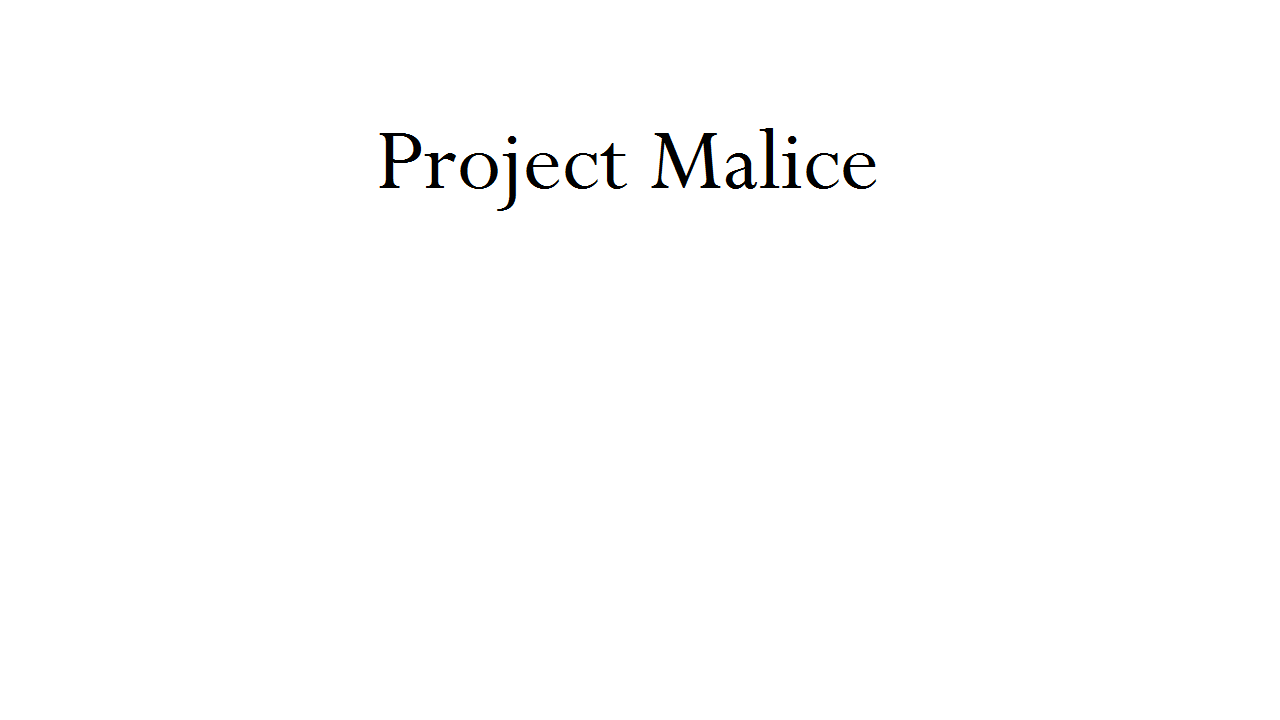
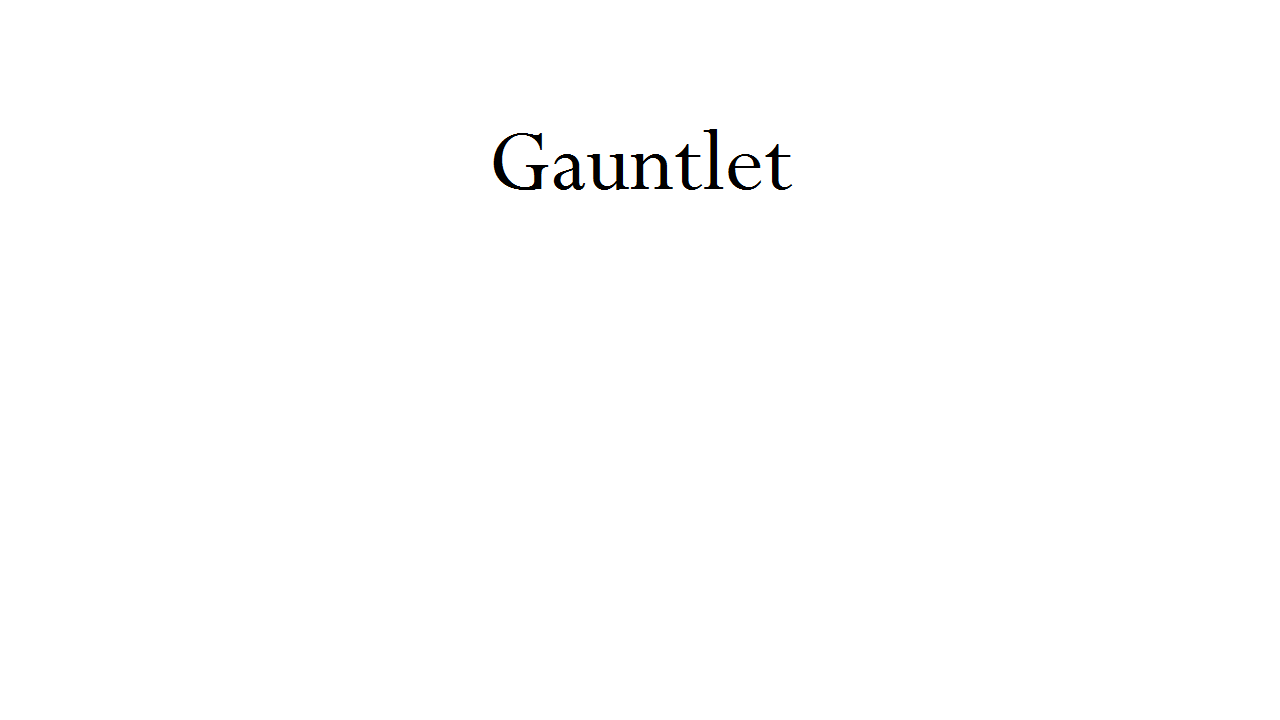
Changed game name to Gauntlet and updated menu images
The splash screen stays on the screen for 5 seconds now so everyone can
read the credits.

Changed region(s): [[0.2812, 0.1833, 0.6875, 0.3056]]

diff --git a/core/src/com/mygdx/game/Malice.java b/core/src/com/mygdx/game/Malice.java
@@ -5,7 +5,7 @@ import com.mygdx.game.screens.Splash;
 
 public class Malice extends Game
 {
-	public static final String TITLE = "Project Malice", VERSION = "1.0.0.0";
+	public static final String TITLE = "Gauntlet", VERSION = "1.0.0.0";
 
 	@Override
 	public void create()

diff --git a/core/src/com/mygdx/game/screens/Splash.java b/core/src/com/mygdx/game/screens/Splash.java
@@ -50,7 +50,7 @@ public class Splash implements Screen
 		batch.begin();
 		splashSprite.draw( batch );
 		batch.end();
-		if ( elapsed > 2 )
+		if ( elapsed > 5 )
 		{
 			game.setScreen( new MainMenu( game, mainTheme ) );
 		}
